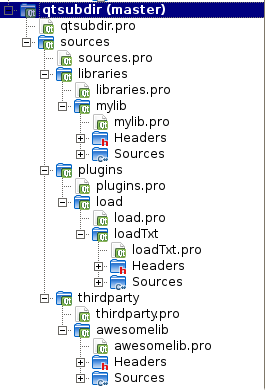
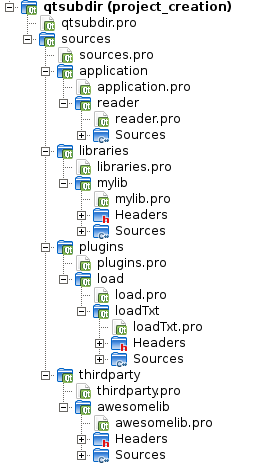
add the forgotten step: the application

Changed region(s): [[0.0, 0.0, 1.0, 1.0], [0.6943, 0.6154, 0.7547, 0.6462]]

diff --git a/sources/application/reader/main.cpp b/sources/application/reader/main.cpp
@@ -1,0 +1,8 @@
+#include <QCoreApplication>
+
+int main(int argc, char *argv[])
+{
+    QCoreApplication a(argc, argv);
+    
+    return a.exec();
+}

diff --git a/documentation/01_project_creation.md b/documentation/01_project_creation.md
@@ -8,7 +8,9 @@
 - Create a new "Libraries > C++ Library" as a "Shared Library" called `mylib` in `~/src/qtsubdir/sources/library/` and add it as a subproject to "sources.pro.
 - Create a new "Other Project > Subdirs Project" called `plugins` in `~/src/qtsubdir/sources/` and add it as a subproject to "sources.pro"
 - Create a new "Other Project > Subdirs Project" called `load` in `~/src/qtsubdir/sources/plugins` and add it as a subproject to "plugins.pro"
-- Create a new "Libraries > C++ Library" called `loadTxt` as a "Shared Library" in `~/src/qtsubdir/sources/plugins/load`and add it as a subproject to "load.pro".
+- Create a new "Libraries > C++ Library" called `loadTxt` as a "Shared Library" in `~/src/qtsubdir/sources/plugins/load` and add it as a subproject to "load.pro".
+- Create a new "Other Project > Subdirs Project" called `application` in `~/src/qtsubdir/sources/` and add it as a subproject to "sources.pro"
+- Create a new "Applications > Qt Console Application" called `reader` in `~/src/qtsubdir/sources/application/` and add it as a subproject to "application.pro".
 
 Now your project should look like this one:
 
@@ -18,6 +20,12 @@ You should now be able to build the "subdir" project. This will create a directo
 
     qtsubdir-build/
         Makefile
+        application/
+            Makefile
+            reader/
+                main.o
+                Makefile
+                reader
         sources/
             Makefile
             libraries/

diff --git a/README.md b/README.md
@@ -1,5 +1,13 @@
 # qtsubdir
 
-this is a repository for testing how to get the .pro file straight with a slightly complex set of subdirs projects
+This is a repository for testing how to get the .pro file straight with a slightly complex set of subdirs projects
+
+We are going to create a dummy Qt Project that is creating a console Qt Application that is reading a text file.
+
+There will be:
+
+- a console application,
+- a "loadTxt" plugin,
+- a `mylib` library that exposes some functionality to both the application and the plugin.
 
 - [Creating the project structure](documentation/01_project_creation.md)
